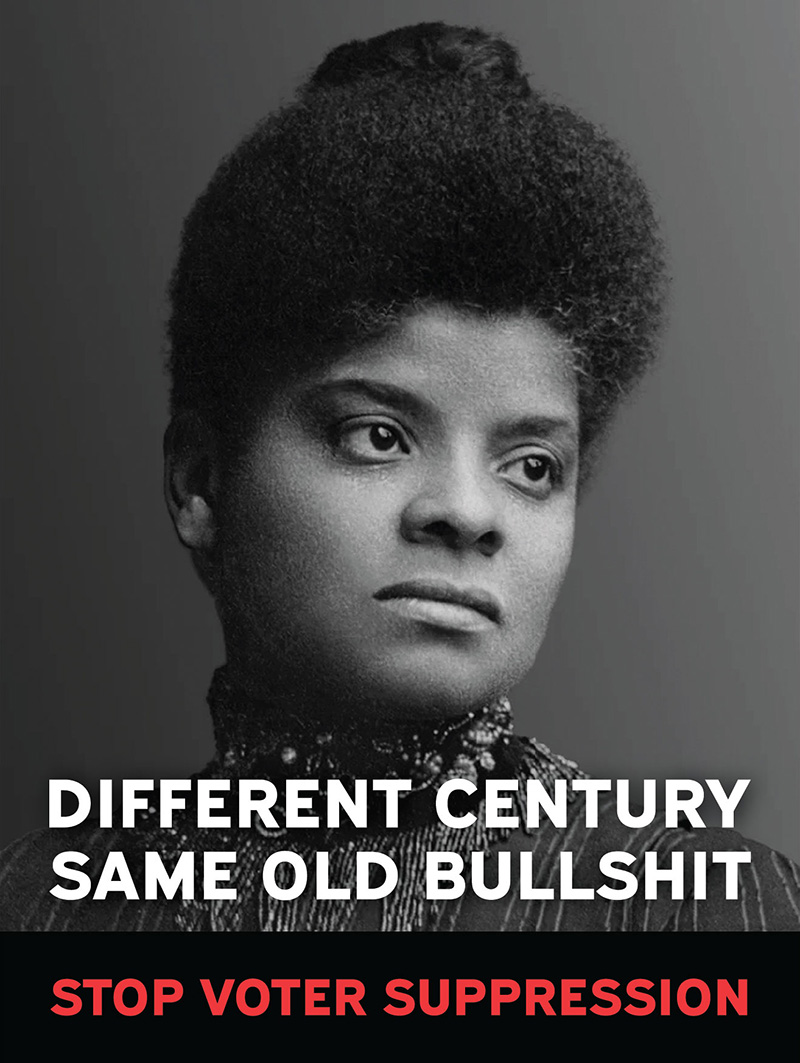
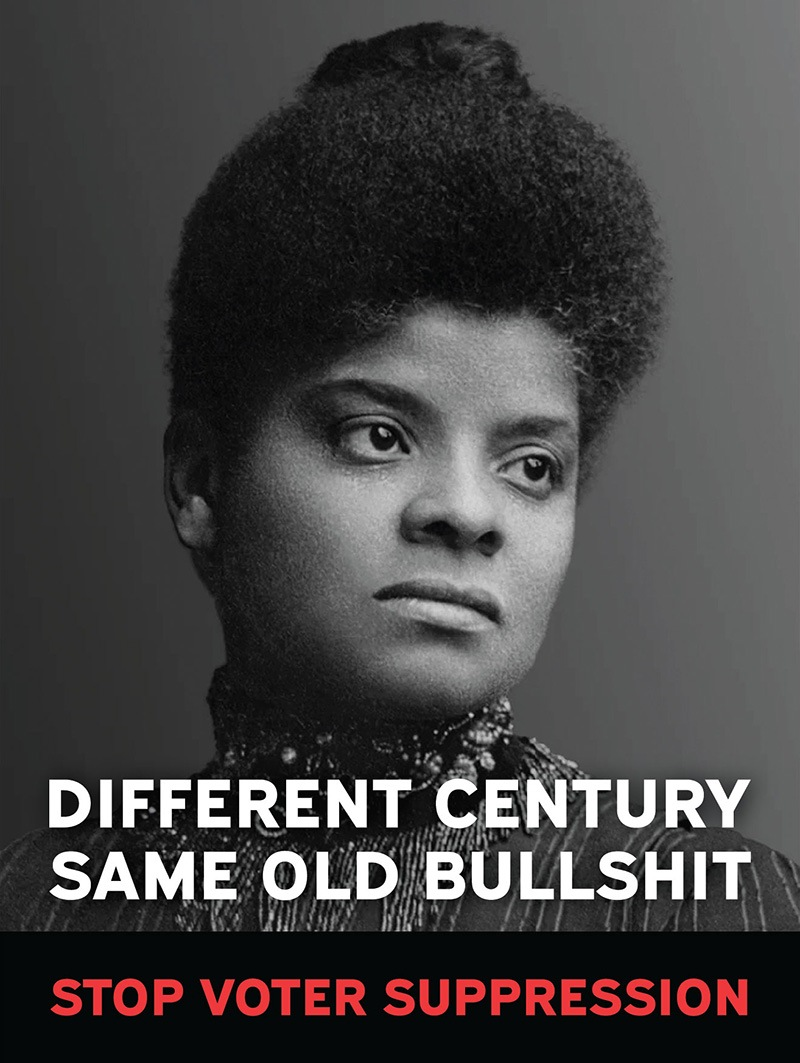
optimized images, +lazy loading

diff --git a/index.html b/index.html
@@ -17,7 +17,7 @@
   <main>
     <div class="posters">
       <figure class="poster">
-        <img src="images/ida-18x24.jpg" alt="A famous photo of Ida B Wells looking resolute, under her a caption reads Different century same old bullshit. Stop voter suppression" height="532" width="400">
+        <img src="images/ida-18x24.jpg" loading="lazy" alt="A famous photo of Ida B Wells looking resolute, under her a caption reads Different century same old bullshit. Stop voter suppression" height="532" width="400">
         <div class="poster__links">
           <a href="https://static.nahfuckthat.org/ida-18x24.pdf" class="poster__link" target="_blank">18" x 24" PDF <span>&rarr;</span></a>
           <a href="https://static.nahfuckthat.org/ida-24x36.pdf" class="poster__link" target="_blank">24" x 36" PDF <span>&rarr;</span></a>
@@ -25,7 +25,7 @@
         </div>
       </figure>
       <figure class="poster">
-        <img src="images/you-again-18x24.jpg" alt="An illustration of Uncle Sam rolling up his sleeves, wielding a wrench, facing right. He is asking You Again?. Next to him are two angry bobble-head versions of Elon Musk giving a Nazi salute and Donald Trump with a swastika armband. Under this it says Stop the fascists. Defend democracy. We beat em before, we'll do it again. Protest, Boycott, Strike, Vote." height="532" width="400">
+        <img src="images/you-again-18x24.jpg" loading="lazy" alt="An illustration of Uncle Sam rolling up his sleeves, wielding a wrench, facing right. He is asking You Again?. Next to him are two angry bobble-head versions of Elon Musk giving a Nazi salute and Donald Trump with a swastika armband. Under this it says Stop the fascists. Defend democracy. We beat em before, we'll do it again. Protest, Boycott, Strike, Vote." height="532" width="400">
         <div class="poster__links">
           <a href="https://static.nahfuckthat.org/you-again-18x24.pdf" class="poster__link" target="_blank">18" x 24" PDF <span>&rarr;</span></a>
           <a href="https://static.nahfuckthat.org/you-again-24x36.pdf" class="poster__link" target="_blank">24" x 36" PDF <span>&rarr;</span></a>
@@ -33,7 +33,7 @@
         </div>
       </figure>
       <figure class="poster">
-        <img src="images/defend-american-freedom-18x24.jpg" alt="An illustration of Uncle Sam putting on worker's clothes. Above him it says Defend American Freedom. It's everybody's job. Under him a caption reads Due process isn't a suggestion. End illegal deportations. Protest, boycott, strike" height="532" width="400">
+        <img src="images/defend-american-freedom-18x24.jpg" loading="lazy" alt="An illustration of Uncle Sam putting on worker's clothes. Above him it says Defend American Freedom. It's everybody's job. Under him a caption reads Due process isn't a suggestion. End illegal deportations. Protest, boycott, strike" height="532" width="400">
         <div class="poster__links">
           <a href="https://static.nahfuckthat.org/defend-american-freedom-18x24.pdf" class="poster__link" target="_blank">18" x 24" PDF <span>&rarr;</span></a>
           <a href="https://static.nahfuckthat.org/defend-american-freedom-24x36.pdf" class="poster__link" target="_blank">24" x 36" PDF <span>&rarr;</span></a>
@@ -41,7 +41,7 @@
         </div>
       </figure>
       <figure class="poster">
-        <img src="images/divest-tsla-18x24.jpg" alt="An upside down Tesla logo that has been modified to appear like a KKK member giving a salute. Under this, text reads $tsla funds fascism. Divest today. Red logo, black text, white background" height="532" width="400">
+        <img src="images/divest-tsla-18x24.jpg" loading="lazy" alt="An upside down Tesla logo that has been modified to appear like a KKK member giving a salute. Under this, text reads $tsla funds fascism. Divest today. Red logo, black text, white background" height="532" width="400">
         <div class="poster__links">
           <a href="https://static.nahfuckthat.org/divest-tsla-18x24.pdf" class="poster__link" target="_blank">18" x 24" PDF <span>&rarr;</span></a>
           <a href="https://static.nahfuckthat.org/divest-tsla-24x36.pdf" class="poster__link" target="_blank">24" x 36" PDF <span>&rarr;</span></a>
@@ -49,7 +49,7 @@
         </div>
       </figure>
       <figure class="poster">
-        <img src="images/divest-tsla-red-18x24.jpg" alt="An upside down Tesla logothat has been modified to appear like a KKK member giving a salute. Under this, text reads $tsla funds fascism. Divest today. White logo, white text, red background" height="532" width="400">
+        <img src="images/divest-tsla-red-18x24.jpg" loading="lazy" alt="An upside down Tesla logothat has been modified to appear like a KKK member giving a salute. Under this, text reads $tsla funds fascism. Divest today. White logo, white text, red background" height="532" width="400">
         <div class="poster__links">
           <a href="https://static.nahfuckthat.org/divest-tsla-red-18x24.pdf" class="poster__link" target="_blank">18" x 24" PDF <span>&rarr;</span></a>
           <a href="https://static.nahfuckthat.org/divest-tsla-red-24x36.pdf" class="poster__link" target="_blank">24" x 36" PDF <span>&rarr;</span></a>
@@ -60,7 +60,7 @@
   </main>
 
   <footer class="footer">
-    <img src="images/bluesky.svg" alt="The logo of Bluesky: A simple butterfly shape.">
+    <img src="images/bluesky.svg" loading="lazy" alt="The logo of Bluesky: A simple butterfly shape.">
     <a href="https://nah-fuck-that.bsky.social" target="_blank">nah-fuck-that.bsky.social</a>
   </footer>
 </body>
